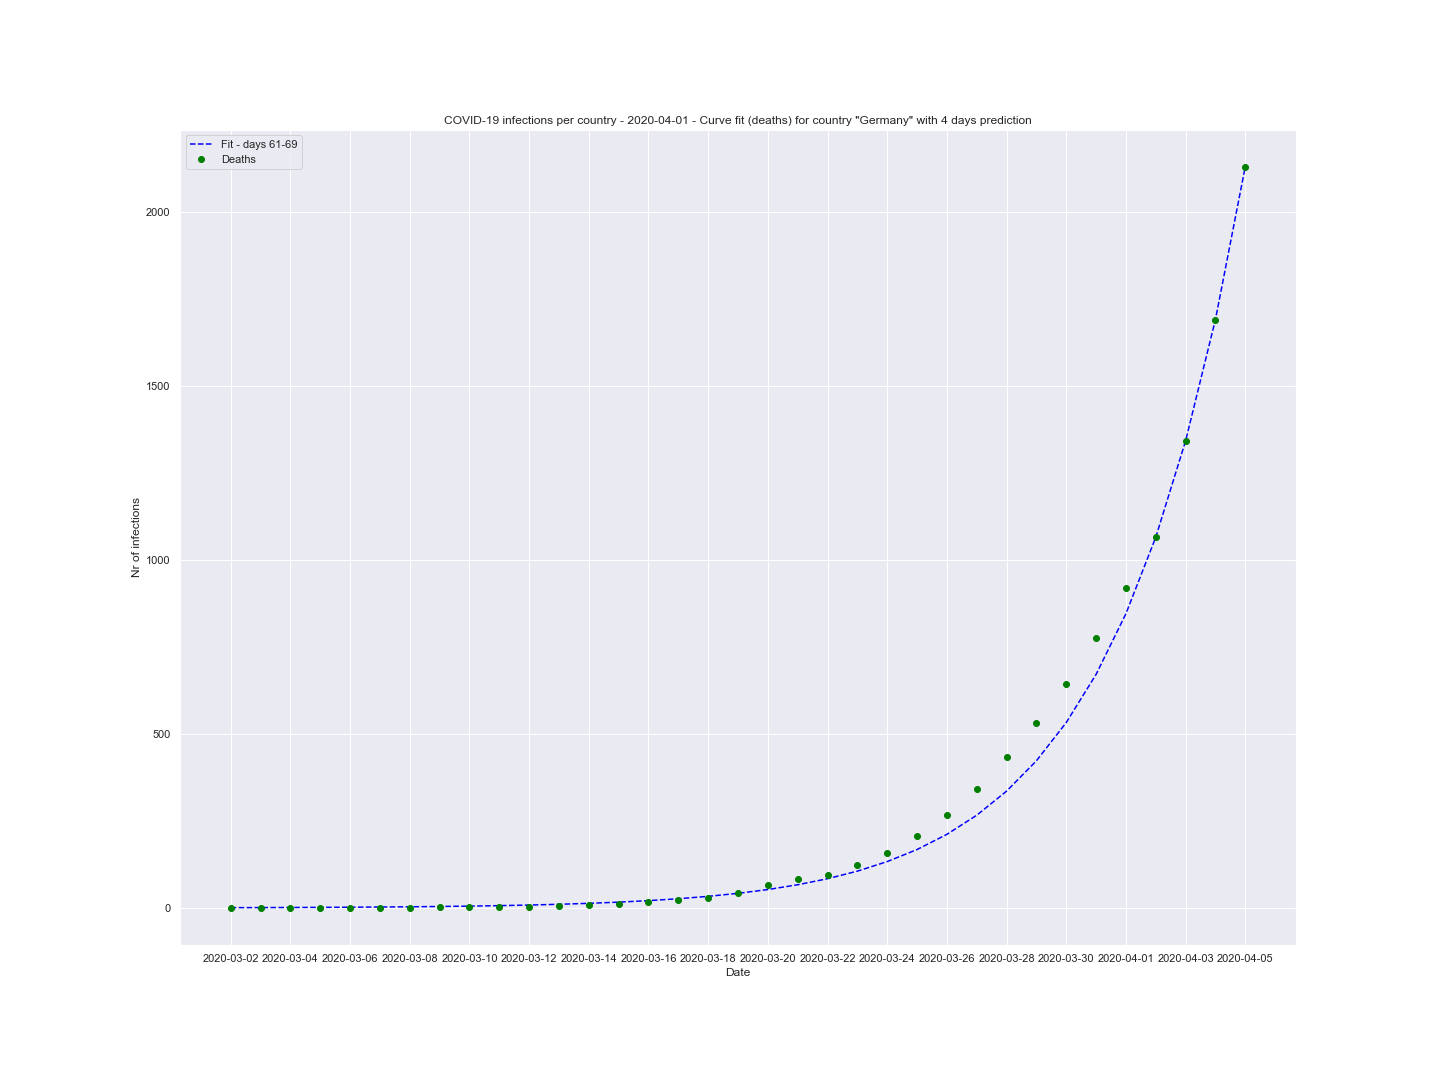
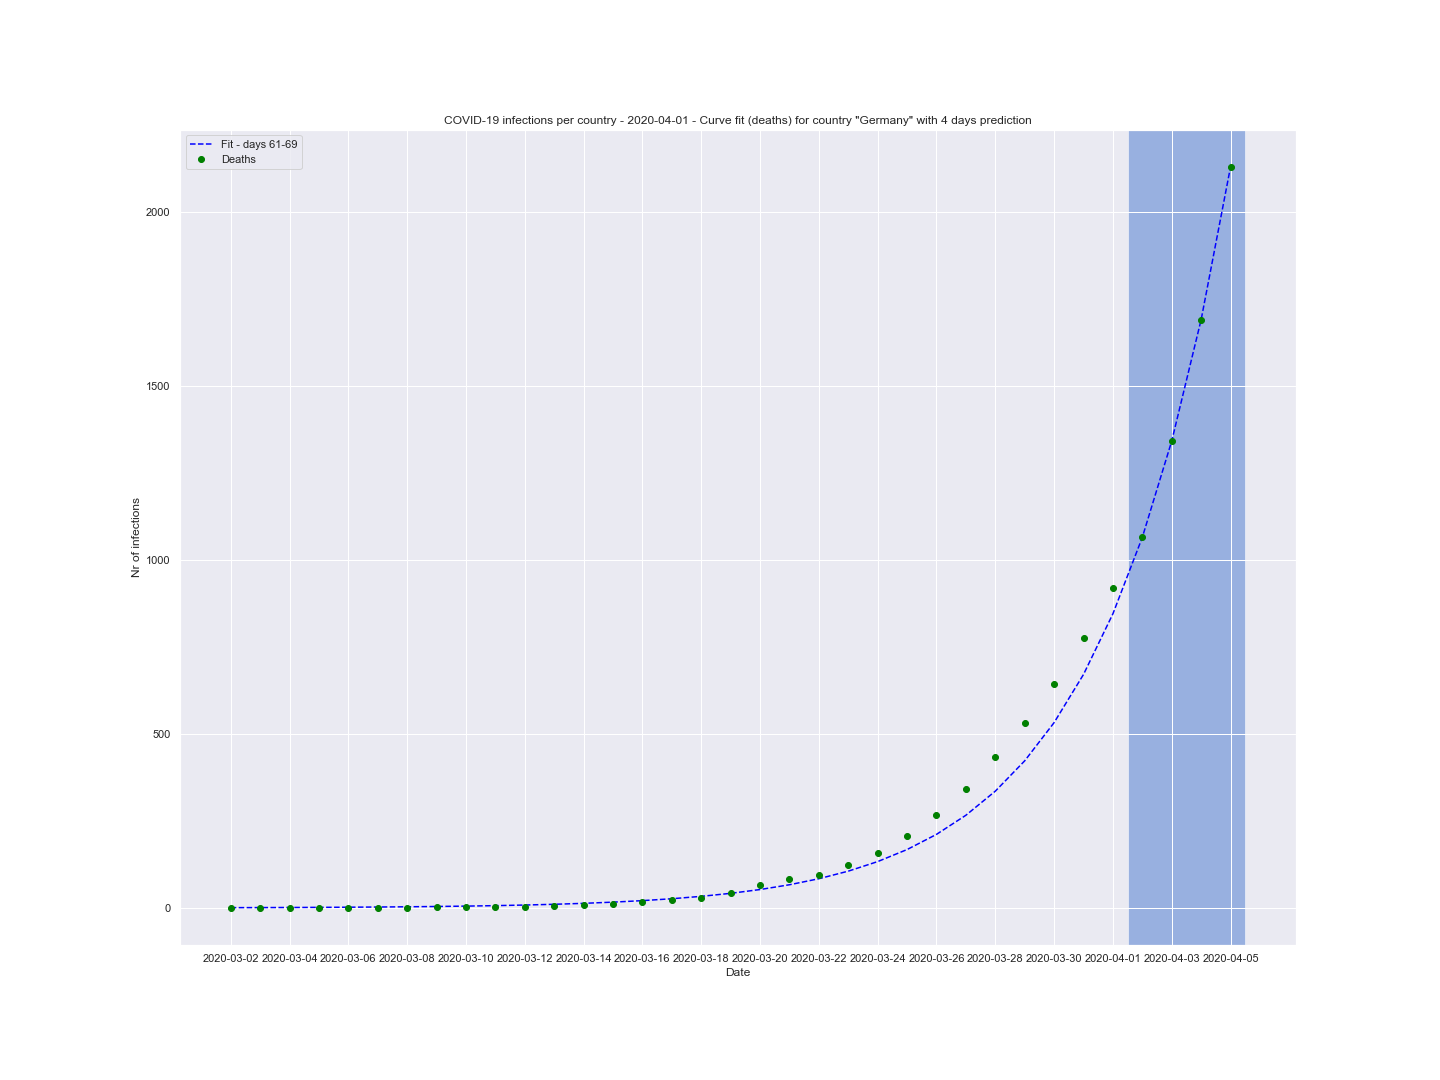
Plotting the background of predictions in different colors

diff --git a/README.md b/README.md
@@ -33,44 +33,44 @@ Jupyter Notebook for "COVID-19: Infections per country"
 
 ## Example plots
 
-Code in the jupyter notebook, here some results as an image (as of date (Y-M-D): 2020-03-31):
+Code in the jupyter notebook, here some results as an image (as of date (Y-M-D): 2020-04-01):
 
 ### Specific countries (infections)
 
-![](images/2020-03-31/Specific-Countries-Infections-Germany-Spain-Iran-US-France-Korea-South-Switzerland-UnitedKingdom.png?raw=true)
+![](images/2020-04-01/Specific-Countries-Infections-Germany-Spain-Iran-US-France-Korea-South-Switzerland-UnitedKingdom.png?raw=true)
 
 ### Specific countries (deaths)
 
-![](images/2020-03-31/Specific-Countries-Deaths-Germany-Spain-Iran-US-France-Korea-South-Switzerland-UnitedKingdom.png?raw=true)
+![](images/2020-04-01/Specific-Countries-Deaths-Germany-Spain-Iran-US-France-Korea-South-Switzerland-UnitedKingdom.png?raw=true)
 
 ### 10 countries with highest infection rates
 
-![](images/2020-03-31/10-Countries-With-Highest-Number-Of-Infections.png?raw=true)
+![](images/2020-04-01/10-Countries-With-Highest-Number-Of-Infections.png?raw=true)
 
 ### 10 countries with highest number of deaths
 
-![](images/2020-03-31/10-Countries-With-Highest-Number-Of-Deaths.png?raw=true)
+![](images/2020-04-01/10-Countries-With-Highest-Number-Of-Deaths.png?raw=true)
 
 ### Curve fit (infections) for country "Germany"
 
-![](images/2020-03-31/Curve-Fit-Infections-Germany.png?raw=true)
+![](images/2020-04-01/Curve-Fit-Infections-Germany.png?raw=true)
 
 ### Curve fit (deaths) for country "Germany"
 
-![](images/2020-03-31/Curve-Fit-Deaths-Germany.png?raw=true)
+![](images/2020-04-01/Curve-Fit-Deaths-Germany.png?raw=true)
 
 ### Multi curve fit (infections) for country "Germany"
 
-![](images/2020-03-31/Multi-Curve-Fit-Infections-Germany.png?raw=true)
+![](images/2020-04-01/Multi-Curve-Fit-Infections-Germany.png?raw=true)
 
 ### Multi curve fit (deaths) for country "Germany"
 
-![](images/2020-03-31/Multi-Curve-Fit-Deaths-Germany.png?raw=true)
+![](images/2020-04-01/Multi-Curve-Fit-Deaths-Germany.png?raw=true)
 
 ### Curve fit (infections) for countries "Italy, US, Spain, Germany"
 
-![](images/2020-03-31/Curve-Fit-Infections-Italy-US-Spain-Germany.png?raw=true)
+![](images/2020-04-01/Curve-Fit-Infections-Italy-US-Spain-Germany.png?raw=true)
 
 ### Curve fit (deaths) for countries "Italy, US, Spain, Germany"
 
-![](images/2020-03-31/Curve-Fit-Deaths-Italy-US-Spain-Germany.png?raw=true)
+![](images/2020-04-01/Curve-Fit-Deaths-Italy-US-Spain-Germany.png?raw=true)
